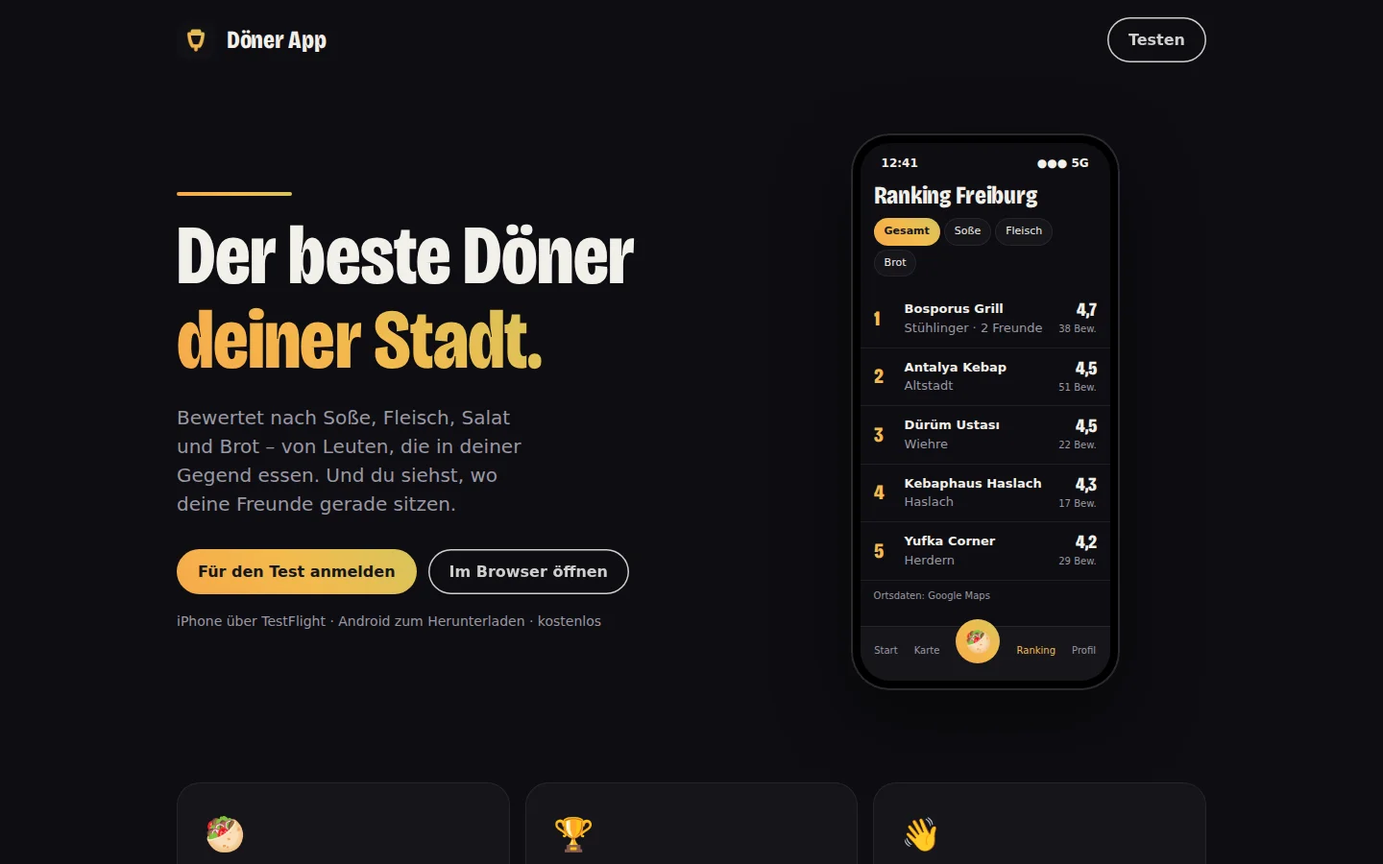
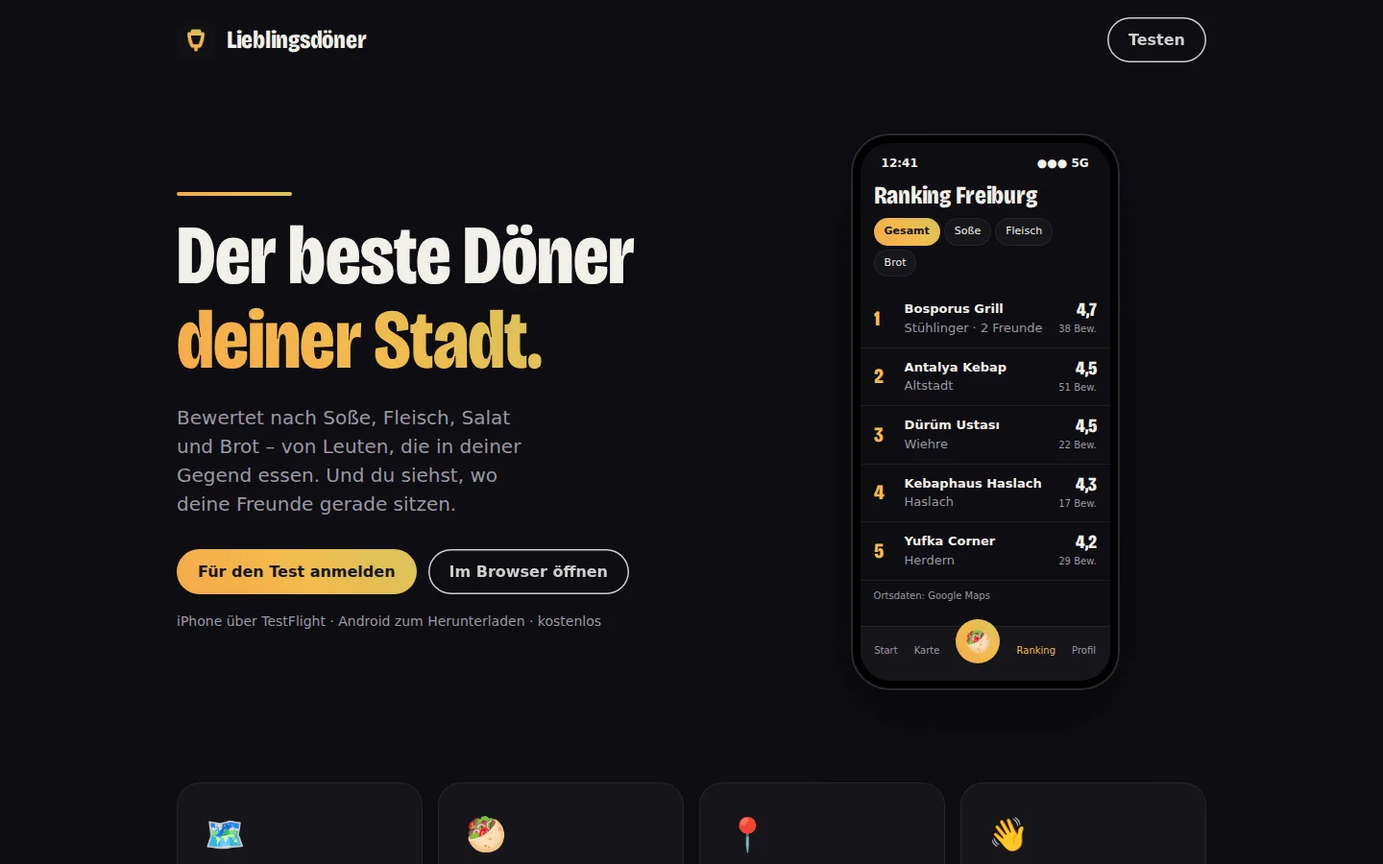
Website upkeep: Lieblingsdöner, Songgate in the stores, Pinna retired, fresh screenshots
The Döner app is called Lieblingsdöner now (apps page, tool wall, app dock,
llms.txt). Songgate links the App Store and Google Play. Pinna is archived,
so it leaves the products page; Käfig rests. Meterbolt gets its texts and the
Homebrew tap is hidden, which turned the werkstatt run red. Screenshots of
all four apps recopied from their repos, i18n.js version bumped, sitemap
dates updated. Logbook and numbers from werkstatt.mjs.

diff --git a/werkstatt.html b/werkstatt.html
@@ -62,11 +62,11 @@
         <h2 class="heading" id="h-zahlen" data-i18n="werkstatt.zahlen.h2">Die letzten 30 Tage</h2>
         <div>
           <div class="stats">
-            <div class="stat"><b data-gh="projects">26</b><span data-i18n="werkstatt.zahlen.projects">Projekte in Arbeit</span></div>
-            <div class="stat"><b data-gh="commits">971</b><span data-i18n="werkstatt.zahlen.commits">Commits in 30 Tagen</span></div>
+            <div class="stat"><b data-gh="projects">25</b><span data-i18n="werkstatt.zahlen.projects">Projekte in Arbeit</span></div>
+            <div class="stat"><b data-gh="commits">966</b><span data-i18n="werkstatt.zahlen.commits">Commits in 30 Tagen</span></div>
             <div class="stat"><b data-gh="agent">75&nbsp;%</b><span data-i18n="werkstatt.zahlen.agent">davon mit einem KI-Agenten als Co-Autor</span></div>
           </div>
-          <p class="source"><span data-i18n="werkstatt.zahlen.stand">Stand:</span> <time data-gh="updated" datetime="2026-11-13T17:06:59.195Z">13.11.2026, 18:06</time></p>
+          <p class="source"><span data-i18n="werkstatt.zahlen.stand">Stand:</span> <time data-gh="updated" datetime="2026-11-13T17:04:40.201Z">13.11.2026, 18:04</time></p>
         </div>
       </section>
 
@@ -91,7 +91,7 @@
             </button>
             <button type="button" class="tool" id="doener" aria-expanded="false" aria-controls="tool-doener">
               <img src="img/werkzeuge/doener.svg" alt="" width="112" height="112">
-              <span class="tool__name">Döner App</span>
+              <span class="tool__name">Lieblingsdöner</span>
               <span class="tool__desc" data-i18n="werkstatt.projekte.doener">Der beste Döner, bewertet von Leuten in der Nähe</span>
               <span class="status status--test" data-i18n="werkstatt.status.test">Testphase</span>
             </button>
@@ -148,11 +148,11 @@
             <div class="tool-panel" id="tool-doener" style="--line: linear-gradient(90deg, #F6A94A, #F3BA4D, #D7C45B)" hidden>
               <div class="tool-panel__head">
                 <img src="img/werkzeuge/doener.svg" alt="" width="56" height="56">
-                <div><h3>Döner App</h3><p data-i18n="werkstatt.wall.doener">Wer in der Nähe Döner isst, bewertet Soße, Fleisch und Brot. Daraus entsteht das Ranking der Stadt. Freunde verbinden sich per QR-Code.</p></div>
+                <div><h3>Lieblingsdöner</h3><p data-i18n="werkstatt.wall.doener">Wer in der Nähe Döner isst, bewertet Soße, Fleisch und Brot. Daraus entsteht das Ranking der Stadt. Freunde verbinden sich per QR-Code.</p></div>
               </div>
               <dl class="project__more">
                 <div><dt data-i18n="werkstatt.projekte.last">Zuletzt geändert</dt><dd><time data-gh="doenerapp.last" datetime="2026-11-13">13.11.</time></dd><dt data-i18n="werkstatt.projekte.stack">Technik</dt><dd>Flutter, Dart, Postgres</dd></div>
-                <div><dt data-i18n="werkstatt.wall.commits">Letzte 30 Tage</dt><dd><span class="commits"><b data-gh="doenerapp.commits">106</b> Commits, <b data-gh="doenerapp.agent">93</b> <span data-i18n="werkstatt.projekte.agent">mit Agent</span><i data-gh-bar="doenerapp" style="width: 62.7%"></i></span></dd><dt>Links</dt><dd><a href="https://github.com/robinchoice/doenerapp" data-i18n="home.facts.code_t">Quellcode</a></dd></div>
+                <div><dt data-i18n="werkstatt.wall.commits">Letzte 30 Tage</dt><dd><span class="commits"><b data-gh="doenerapp.commits">105</b> Commits, <b data-gh="doenerapp.agent">92</b> <span data-i18n="werkstatt.projekte.agent">mit Agent</span><i data-gh-bar="doenerapp" style="width: 62.1%"></i></span></dd><dt>Links</dt><dd><a href="https://github.com/robinchoice/doenerapp" data-i18n="home.facts.code_t">Quellcode</a></dd></div>
               </dl>
             </div>
             <div class="tool-panel" id="tool-fieldtest" style="--line: linear-gradient(90deg, #D7C45B, #ACC870, #80CD84)" hidden>
@@ -372,17 +372,6 @@
             </details>
             <details>
               <summary>
-                <span><span class="project__name">homebrew-tap</span><span class="project__desc" data-en=""></span></span>
-                <span class="status status--work" data-i18n="werkstatt.status.work">In Arbeit</span>
-                <span class="commits"><b data-gh="homebrew-tap.commits">4</b> Commits, <b data-gh="homebrew-tap.agent">3</b> <span data-i18n="werkstatt.projekte.agent">mit Agent</span><i data-gh-bar="homebrew-tap" style="width: 2.4%"></i></span>
-              </summary>
-              <dl class="project__more">
-                <div><dt data-i18n="werkstatt.projekte.last">Zuletzt geändert</dt><dd><time data-gh="homebrew-tap.last" datetime="2026-11-13">13.11.</time></dd><dt data-i18n="werkstatt.projekte.stack">Technik</dt><dd></dd></div>
-                <div><dt>Links</dt><dd><a href="https://github.com/robinchoice/homebrew-tap" data-i18n="home.facts.code_t">Quellcode</a></dd></div>
-              </dl>
-            </details>
-            <details>
-              <summary>
                 <span><span class="project__name">mautrix-mattermost</span><span class="project__desc" data-en="Unofficial Matrix–Mattermost puppeting bridge, meant to go upstream">Inoffizielle Brücke zwischen Matrix und Mattermost, gedacht für upstream</span></span>
                 <span class="status status--work" data-i18n="werkstatt.status.work">In Arbeit</span>
                 <span class="commits"><b data-gh="mautrix-mattermost.commits">4</b> Commits, <b data-gh="mautrix-mattermost.agent">4</b> <span data-i18n="werkstatt.projekte.agent">mit Agent</span><i data-gh-bar="mautrix-mattermost" style="width: 2.4%"></i></span>
@@ -427,12 +416,12 @@
             </details>
             <details>
               <summary>
-                <span><span class="project__name">meterbolt</span><span class="project__desc" data-en=""></span></span>
+                <span><span class="project__name">Meterbolt</span><span class="project__desc" data-en="BTCPay Server plugin that lets APIs charge per request with Lightning via L402. Just getting started">Plugin für BTCPay Server, das APIs per L402 mit Lightning bezahlbar macht. Steht noch am Anfang</span></span>
                 <span class="status status--work" data-i18n="werkstatt.status.work">In Arbeit</span>
                 <span class="commits"><b data-gh="meterbolt.commits">1</b> Commits, <b data-gh="meterbolt.agent">0</b> <span data-i18n="werkstatt.projekte.agent">mit Agent</span><i data-gh-bar="meterbolt" style="width: 0.6%"></i></span>
               </summary>
               <dl class="project__more">
-                <div><dt data-i18n="werkstatt.projekte.last">Zuletzt geändert</dt><dd><time data-gh="meterbolt.last" datetime="2026-11-13">13.11.</time></dd><dt data-i18n="werkstatt.projekte.stack">Technik</dt><dd></dd></div>
+                <div><dt data-i18n="werkstatt.projekte.last">Zuletzt geändert</dt><dd><time data-gh="meterbolt.last" datetime="2026-11-13">13.11.</time></dd><dt data-i18n="werkstatt.projekte.stack">Technik</dt><dd>C#, .NET, BTCPay Server, Lightning (L402)</dd></div>
                 <div><dt>Links</dt><dd><a href="https://github.com/robinchoice/meterbolt" data-i18n="home.facts.code_t">Quellcode</a></dd></div>
               </dl>
             </details>
@@ -447,13 +436,13 @@
           <ul class="log">
             <!-- werkstatt:log -->
             <li><time datetime="2026-11-13">13.11.</time><b>Savor</b><span data-en="I cut installing Savor down to one line: Homebrew on the Mac, a script on Linux and on your own server">Savor installiert man jetzt mit einer Zeile: per Homebrew auf dem Mac, per Skript unter Linux und auf dem eigenen Server</span></li>
-            <li><time datetime="2026-11-12">12.11.</time><b>Döner App</b><span data-en="I taught Lieblingsdöner to rate portion size, rank by value for money and filter for halal meat and homemade skewers">Lieblingsdöner bewertet die Größe, rankt nach Preis-Leistung und filtert Halal und selbst gesteckten Spieß</span></li>
+            <li><time datetime="2026-11-12">12.11.</time><b>Lieblingsdöner</b><span data-en="I taught Lieblingsdöner to rate portion size, rank by value for money and filter for halal meat and homemade skewers">Lieblingsdöner bewertet die Größe, rankt nach Preis-Leistung und filtert Halal und selbst gesteckten Spieß</span></li>
             <li><time datetime="2026-11-12">12.11.</time><b>starter</b><span data-en="I turned the colour band under the Pleasance wordmark into a dock of all my apps, on the web and in Flutter">Das Farbband unter der Wortmarke wird zum Dock der Pleasance-Apps, im Web und in Flutter</span></li>
             <li><time datetime="2026-11-11">11.11.</time><b>Savor</b><span data-en="Savor streams answers as they are written and adds a fast lane for quick questions">Savor streamt Antworten und bekommt eine Schnellspur für kurze Fragen</span></li>
             <li><time datetime="2026-11-10">10.11.</time><b>Music Hub</b><span data-en="Music Hub now lets project owners set rights per person (upload, download, comment, approve, invite), with the role as a preset">Music Hub: Rechte je Person einstellbar, Einstellungen überall erreichbar</span></li>
             <li><time datetime="2026-11-10">10.11.</time><b>Music Hub</b><span data-en="Music Hub now navigates like a drive: a short sidebar, My music as folders of artists, projects and tracks, and files per track">Music Hub navigiert wie ein Drive: kurze Seitenleiste, Meine Musik als Ordner, Dateien je Track</span></li>
             <li><time datetime="2026-11-09">09.11.</time><b>Savor</b><span data-en="Savor Cloud instances now come with one setup link that waits for the instance and works until the first pairing">Savor Cloud: ein Setup-Link, der auf seine Instanz wartet</span></li>
-            <li><time datetime="2026-11-09">09.11.</time><b>Döner App</b><span data-en="I renamed the Döner app to Lieblingsdöner">Die Döner-App heißt jetzt Lieblingsdöner</span></li>
+            <li><time datetime="2026-11-09">09.11.</time><b>Lieblingsdöner</b><span data-en="I renamed the Döner app to Lieblingsdöner">Die Döner-App heißt jetzt Lieblingsdöner</span></li>
             <li><time datetime="2026-11-09">09.11.</time><b>Music Hub</b><span data-en="I added referrals to Music Hub, both sides get free plan days once a referred account pays">Music Hub lockt mit Empfehlungen: beide Seiten bekommen freie Plantage</span></li>
             <li><time datetime="2026-11-08">08.11.</time><b>Music Hub</b><span data-en="I added a blind test to Music Hub, so you pick the better mix without knowing which version it is">Music Hub hat einen Blindtest für Versionen</span></li>
             <!-- /werkstatt:log -->
@@ -520,7 +509,7 @@
 
   <script src="vendor/sentry-11.4.0.min.js"></script>
   <script src="monitoring.js"></script>
-  <script src="i18n.js?v=20261106a"></script>
+  <script src="i18n.js?v=20261113a"></script>
   <script src="main.js?v=20261027c"></script>
   <script>
   (function () {

diff --git a/produkte.html b/produkte.html
@@ -3,8 +3,8 @@
 <head>
   <meta charset="UTF-8">
   <meta name="viewport" content="width=device-width, initial-scale=1.0">
-  <title>Produkte: Freehold, Savor, Pinna, Academy und Labs — Pleasance</title>
-  <meta name="description" content="Pleasance ist die Dachmarke für Freehold, Savor, Pinna, die Academy und die Labs. Die Software ist Open Source und läuft auf dem eigenen Rechner oder Server.">
+  <title>Produkte: Freehold, Savor, Academy und Labs — Pleasance</title>
+  <meta name="description" content="Pleasance ist die Dachmarke für Freehold, Savor, die Academy und die Labs. Die Software ist Open Source und läuft auf dem eigenen Rechner oder Server.">
   <link rel="canonical" href="https://pleasance.org/produkte.html">
   <link rel="icon" href="favicon.ico" sizes="32x32">
   <link rel="icon" href="favicon.svg" type="image/svg+xml">
@@ -12,8 +12,8 @@
   <meta property="og:site_name" content="Pleasance">
   <meta property="og:locale" content="de_DE">
   <meta property="og:url" content="https://pleasance.org/produkte.html">
-  <meta property="og:title" content="Produkte: Freehold, Savor, Pinna, Academy und Labs — Pleasance">
-  <meta property="og:description" content="Pleasance ist die Dachmarke für Freehold, Savor, Pinna, die Academy und die Labs. Die Software ist Open Source und läuft auf dem eigenen Rechner oder Server.">
+  <meta property="og:title" content="Produkte: Freehold, Savor, Academy und Labs — Pleasance">
+  <meta property="og:description" content="Pleasance ist die Dachmarke für Freehold, Savor, die Academy und die Labs. Die Software ist Open Source und läuft auf dem eigenen Rechner oder Server.">
   <meta property="og:image" content="https://pleasance.org/img/og.png">
   <meta property="og:image:alt" content="Pleasance: Werkzeuge, Wissen und Wege, die dir gehören. Software, Training und Coaching aus Freiburg.">
   <meta name="twitter:card" content="summary_large_image">
@@ -115,17 +115,6 @@
         </div>
       </section>
 
-      <section class="section" id="pinna" aria-labelledby="h-pinna">
-        <div>
-          <h2 class="heading" id="h-pinna">Pleasance Pinna</h2>
-          <p class="app__tagline" data-i18n="produkte.pinna.tagline">Agenten schlagen vor. Du hörst und entscheidest.</p>
-        </div>
-        <div>
-          <p class="app__text" data-i18n="produkte.pinna.text">Eine Audio-Workstation für Agenten: Der Agent schlägt Änderungen vor und misst, was er hört, du vergleichst per A/B und übernimmst. Der Song liegt als Textdatei in Git. Für Linux, macOS und Windows.</p>
-          <p class="links"><a href="https://github.com/robinchoice/pinna/releases" data-i18n="produkte.pinna.link">Herunterladen</a> <a href="https://github.com/robinchoice/pinna" data-i18n="home.facts.code_t">Quellcode</a></p>
-        </div>
-      </section>
-
       <section class="section" id="academy" aria-labelledby="h-academy">
         <div>
           <h2 class="heading" id="h-academy">Pleasance Academy</h2>
@@ -146,7 +135,7 @@
           <p class="app__tagline" data-i18n="produkte.labs.tagline">Experimente, öffentlich gebaut. Ob daraus ein Produkt wird, ist offen.</p>
         </div>
         <ul class="approach approach--named">
-          <li><h3>Käfig <em class="badge" data-i18n="produkte.labs.badge">Experiment</em></h3><p data-i18n="produkte.labs.kaefig">Eine Arena: Bringst du einen KI-Agenten in seiner Sandbox über eine Grenze?</p><p class="links"><a href="https://github.com/robinchoice/kaefig" data-i18n="home.facts.code_t">Quellcode</a></p></li>
+          <li><h3>Käfig <span class="status status--quiet" data-i18n="werkstatt.status.quiet">Ruht</span></h3><p data-i18n="produkte.labs.kaefig">Eine Arena: Bringst du einen KI-Agenten in seiner Sandbox über eine Grenze?</p><p class="links"><a href="https://github.com/robinchoice/kaefig" data-i18n="home.facts.code_t">Quellcode</a></p></li>
           <li><h3>Stackarena <em class="badge" data-i18n="produkte.labs.badge">Experiment</em></h3><p data-i18n="produkte.labs.stackarena">Agenten bauen dieselbe App auf vielen Stacks, jeder Lauf wird gleich getestet und bewertet.</p><p class="links"><a href="https://github.com/robinchoice/stackarena" data-i18n="home.facts.code_t">Quellcode</a></p></li>
           <li><h3>docpilot <span class="status status--quiet" data-i18n="werkstatt.status.quiet">Ruht</span></h3><p data-i18n="produkte.labs.docpilot">Dokumentation, die bei jedem Push mitwächst: Eine GitHub Action schlägt die neue README als Pull Request vor.</p><p class="links"><a href="https://github.com/robinchoice/docpilot" data-i18n="home.facts.code_t">Quellcode</a></p></li>
         </ul>
@@ -179,7 +168,7 @@
 
   <script src="vendor/sentry-11.4.0.min.js"></script>
   <script src="monitoring.js"></script>
-  <script src="i18n.js?v=20261106a"></script>
+  <script src="i18n.js?v=20261113a"></script>
   <script src="main.js?v=20261027c"></script>
 
 </body>

diff --git a/apps.html b/apps.html
@@ -4,7 +4,7 @@
   <meta charset="UTF-8">
   <meta name="viewport" content="width=device-width, initial-scale=1.0">
   <title>Apps: Open Source und selbst betrieben — Pleasance</title>
-  <meta name="description" content="Kleine Apps mit je einem Zweck, gebaut mit KI-Agenten und selbst betrieben: Savor, Music Hub, Songgate und die Döner App. Alle Open Source.">
+  <meta name="description" content="Kleine Apps mit je einem Zweck, gebaut mit KI-Agenten und selbst betrieben: Savor, Music Hub, Songgate und Lieblingsdöner. Alle Open Source.">
   <link rel="canonical" href="https://pleasance.org/apps.html">
   <link rel="icon" href="favicon.ico" sizes="32x32">
   <link rel="icon" href="favicon.svg" type="image/svg+xml">
@@ -13,7 +13,7 @@
   <meta property="og:locale" content="de_DE">
   <meta property="og:url" content="https://pleasance.org/apps.html">
   <meta property="og:title" content="Apps: Open Source und selbst betrieben — Pleasance">
-  <meta property="og:description" content="Kleine Apps mit je einem Zweck, gebaut mit KI-Agenten und selbst betrieben: Savor, Music Hub, Songgate und die Döner App. Alle Open Source.">
+  <meta property="og:description" content="Kleine Apps mit je einem Zweck, gebaut mit KI-Agenten und selbst betrieben: Savor, Music Hub, Songgate und Lieblingsdöner. Alle Open Source.">
   <meta property="og:image" content="https://pleasance.org/img/og.png">
   <meta property="og:image:alt" content="Pleasance: Werkzeuge, Wissen und Wege, die dir gehören. Software, Training und Coaching aus Freiburg.">
   <meta name="twitter:card" content="summary_large_image">
@@ -105,6 +105,8 @@
           <p class="app__text" data-en="Paste a link to a song, album or podcast and Songgate finds it on Spotify, Apple Music, YouTube Music, Deezer and TIDAL. No account, friends and groups stay on your device.">Füg einen Link zu Song, Album oder Podcast ein, Songgate findet ihn bei Spotify, Apple Music, YouTube Music, Deezer und TIDAL. Ohne Konto, Freunde und Gruppen bleiben auf deinem Gerät.</p>
           <div class="app__links">
             <a class="btn" href="https://songgate.app" data-en="Open Songgate">Songgate öffnen</a>
+            <a class="btn btn--ghost" href="https://apps.apple.com/app/id6819013473" data-en="App Store">App Store</a>
+            <a class="btn btn--ghost" href="https://play.google.com/store/apps/details?id=org.pleasance.songgate" data-en="Google Play">Google Play</a>
             <a href="https://github.com/robinchoice/songgate" data-i18n="home.facts.code_t">Quellcode</a>
           </div>
           <div class="shots">
@@ -116,7 +118,7 @@
       <section class="section app" id="doener" aria-labelledby="h-doener">
         <div>
           <img class="app__icon" src="img/werkzeuge/doener.svg" alt="" width="72" height="72">
-          <h2 class="heading" id="h-doener">Döner App</h2>
+          <h2 class="heading" id="h-doener">Lieblingsdöner</h2>
           <p class="app__tagline" data-en="The best döner in your city.">Der beste Döner deiner Stadt.</p>
         </div>
         <div>
@@ -126,8 +128,8 @@
             <a href="https://github.com/robinchoice/doenerapp" data-i18n="home.facts.code_t">Quellcode</a>
           </div>
           <div class="shots">
-            <a class="shot shot--desktop" href="img/apps/doener-desktop.webp"><img src="img/apps/doener-desktop.webp" data-en-src="img/apps/doener-desktop-en.webp" alt="Döner App, Desktop" width="1440" height="900" loading="lazy"></a>
-            <a class="shot shot--phone" href="img/apps/doener-phone.webp"><img src="img/apps/doener-phone.webp" data-en-src="img/apps/doener-phone-en.webp" alt="Döner App, Smartphone" width="780" height="1688" loading="lazy"></a>
+            <a class="shot shot--desktop" href="img/apps/doener-desktop.webp"><img src="img/apps/doener-desktop.webp" data-en-src="img/apps/doener-desktop-en.webp" alt="Lieblingsdöner, Desktop" width="1440" height="900" loading="lazy"></a>
+            <a class="shot shot--phone" href="img/apps/doener-phone.webp"><img src="img/apps/doener-phone.webp" data-en-src="img/apps/doener-phone-en.webp" alt="Lieblingsdöner, Smartphone" width="780" height="1688" loading="lazy"></a>
           </div>
         </div>
       </section>
@@ -170,7 +172,7 @@
 
   <script src="vendor/sentry-11.4.0.min.js"></script>
   <script src="monitoring.js"></script>
-  <script src="i18n.js?v=20261106a"></script>
+  <script src="i18n.js?v=20261113a"></script>
   <script src="main.js?v=20261027c"></script>
 
 </body>

diff --git a/i18n.js b/i18n.js
@@ -54,12 +54,12 @@ const I18N_META = {
   },
   produkte: {
     title: {
-      de: 'Produkte: Freehold, Savor, Pinna, Academy und Labs — Pleasance',
-      en: 'Products: Freehold, Savor, Pinna, Academy and Labs — Pleasance',
+      de: 'Produkte: Freehold, Savor, Academy und Labs — Pleasance',
+      en: 'Products: Freehold, Savor, Academy and Labs — Pleasance',
     },
     desc: {
-      de: 'Pleasance ist die Dachmarke für Freehold, Savor, Pinna, die Academy und die Labs. Die Software ist Open Source und läuft auf dem eigenen Rechner oder Server.',
-      en: 'Pleasance is the umbrella brand for Freehold, Savor, Pinna, the Academy and the Labs. The software is open source and runs on your own computer or server.',
+      de: 'Pleasance ist die Dachmarke für Freehold, Savor, die Academy und die Labs. Die Software ist Open Source und läuft auf dem eigenen Rechner oder Server.',
+      en: 'Pleasance is the umbrella brand for Freehold, Savor, the Academy and the Labs. The software is open source and runs on your own computer or server.',
     },
   },
   apps: {
@@ -68,8 +68,8 @@ const I18N_META = {
       en: 'Apps: open source and self-hosted — Pleasance',
     },
     desc: {
-      de: 'Kleine Apps mit je einem Zweck, gebaut mit KI-Agenten und selbst betrieben: Savor, Music Hub, Songgate und die Döner App. Alle Open Source.',
-      en: 'Small apps, each with one job, built with AI agents and self-hosted: Savor, Music Hub, Songgate and the Döner App. All open source.',
+      de: 'Kleine Apps mit je einem Zweck, gebaut mit KI-Agenten und selbst betrieben: Savor, Music Hub, Songgate und Lieblingsdöner. Alle Open Source.',
+      en: 'Small apps, each with one job, built with AI agents and self-hosted: Savor, Music Hub, Songgate and Lieblingsdöner. All open source.',
     },
   },
   werkstatt: {
@@ -841,11 +841,6 @@ const I18N = {
       tagline: { de: 'Coding-Agents, die sich zurückmelden.', en: 'Coding agents that report back.' },
       text: { de: 'Die lokale Arbeitsumgebung für Claude Code, Codex und OpenCode: Jede Aufgabe endet mit einem klaren Ergebnis, den Fragen an dich und den nächsten Schritten. Für Linux, macOS und Windows.', en: 'The local workspace for Claude Code, Codex and OpenCode: every task ends with one clear result, the questions that need you, and next steps. For Linux, macOS and Windows.' },
       link: { de: 'Mehr über Savor', en: 'More about Savor' },
-    },
-    pinna: {
-      tagline: { de: 'Agenten schlagen vor. Du hörst und entscheidest.', en: 'Agents propose. You listen and decide.' },
-      text: { de: 'Eine Audio-Workstation für Agenten: Der Agent schlägt Änderungen vor und misst, was er hört, du vergleichst per A/B und übernimmst. Der Song liegt als Textdatei in Git. Für Linux, macOS und Windows.', en: 'An audio workstation for agents: the agent proposes changes and measures what it hears, you compare by A/B and accept. The song lives as a text file in Git. For Linux, macOS and Windows.' },
-      link: { de: 'Herunterladen', en: 'Download' },
     },
     academy: {
       tagline: { de: 'Agentisches Arbeiten lernen.', en: 'Learn to work with agents.' },

diff --git a/index.html b/index.html
@@ -129,7 +129,7 @@
             </a>
             <a class="tool" href="werkstatt.html#doener">
               <img src="img/werkzeuge/doener.svg" alt="" width="112" height="112">
-              <span class="tool__name">Döner App</span>
+              <span class="tool__name">Lieblingsdöner</span>
               <span class="status status--test" data-i18n="werkstatt.status.test">Testphase</span>
             </a>
             <a class="tool" href="werkstatt.html#fieldtest">
@@ -159,10 +159,10 @@
             </a>
           </div>
           <div class="pulse">
-            <p><b data-gh="projects">26</b> <span data-i18n="werkstatt.zahlen.projects">Projekte in Arbeit</span></p>
-            <p><b data-gh="commits">971</b> <span data-i18n="werkstatt.zahlen.commits">Commits in 30 Tagen</span></p>
+            <p><b data-gh="projects">25</b> <span data-i18n="werkstatt.zahlen.projects">Projekte in Arbeit</span></p>
+            <p><b data-gh="commits">966</b> <span data-i18n="werkstatt.zahlen.commits">Commits in 30 Tagen</span></p>
             <p><b data-gh="agent">75&nbsp;%</b> <span data-i18n="home.pulse.agent">davon mit Agent</span></p>
-            <p class="source"><span data-i18n="werkstatt.zahlen.stand">Stand:</span> <time data-gh="updated" datetime="2026-11-13T17:06:59.195Z">13.11.2026, 18:06</time>, <a href="werkstatt.html" data-i18n="home.pulse.source">alle Projekte in der Werkstatt</a></p>
+            <p class="source"><span data-i18n="werkstatt.zahlen.stand">Stand:</span> <time data-gh="updated" datetime="2026-11-13T17:04:40.201Z">13.11.2026, 18:04</time>, <a href="werkstatt.html" data-i18n="home.pulse.source">alle Projekte in der Werkstatt</a></p>
           </div>
         </div>
       </section>
@@ -322,7 +322,7 @@
 
   <script src="vendor/sentry-11.4.0.min.js"></script>
   <script src="monitoring.js"></script>
-  <script src="i18n.js?v=20261106a"></script>
+  <script src="i18n.js?v=20261113a"></script>
   <script src="main.js?v=20261027c"></script>
 
   <script>

diff --git a/handbuch.html b/handbuch.html
@@ -89,7 +89,7 @@
           <section class="chapter" id="fabrik" aria-labelledby="h-hb-f">
             <h2 class="heading" id="h-hb-f" data-i18n="hb.f.h2">Die Fabrik</h2>
             <p data-i18n="hb.f.p1">Neue Apps entstehen aus einer Vorlage, die Login, Deutsch und Englisch, Tests und Deploy schon mitbringt. Vor dem Bau prüfen Agenten, ob es die Idee schon gibt, dann entstehen 2–3 klickbare Mockups. Gebaut wird nur die Richtung, die ich freigebe. Ein Push auf den Hauptzweig geht live, und ein Deploy zählt erst, wenn die App selbst den neuen Stand meldet.</p>
-            <p><span data-i18n="hb.f.n1">In den letzten 30 Tagen:</span> <b data-gh="commits">971</b> <span data-i18n="hb.f.n2">Commits in</span> <b data-gh="projects">26</b> <span data-i18n="hb.f.n3">Projekten,</span> <b data-gh="agent">75&nbsp;%</b> <span data-i18n="hb.f.n4">davon mit einem Agenten als Co-Autor. Songgate (damals MusicLink) lief 1&nbsp;Stunde 14&nbsp;Minuten nach dem ersten Commit.</span></p>
+            <p><span data-i18n="hb.f.n1">In den letzten 30 Tagen:</span> <b data-gh="commits">966</b> <span data-i18n="hb.f.n2">Commits in</span> <b data-gh="projects">25</b> <span data-i18n="hb.f.n3">Projekten,</span> <b data-gh="agent">75&nbsp;%</b> <span data-i18n="hb.f.n4">davon mit einem Agenten als Co-Autor. Songgate (damals MusicLink) lief 1&nbsp;Stunde 14&nbsp;Minuten nach dem ersten Commit.</span></p>
             <p class="teaser"><a href="werkstatt.html" data-i18n="nacht.factory.more">Alle Projekte in der Werkstatt</a></p>
           </section>
 
@@ -163,7 +163,7 @@
 
   <script src="vendor/sentry-11.4.0.min.js"></script>
   <script src="monitoring.js"></script>
-  <script src="i18n.js?v=20261106a"></script>
+  <script src="i18n.js?v=20261113a"></script>
   <script src="main.js?v=20261027c"></script>
 
 </body>

diff --git a/nachtschicht.html b/nachtschicht.html
@@ -100,8 +100,8 @@
       <section class="section" aria-labelledby="h-factory">
         <div>
           <h2 class="heading" id="h-factory" data-i18n="nacht.factory.h2">Ein Tag in der Fabrik</h2>
-          <p class="factory-sum"><span data-i18n="nacht.factory.day">In den 24 Stunden vor dem letzten Stand:</span> <b data-gh="day.commits">50</b> <span data-i18n="nacht.factory.commits">Commits in</span> <b data-gh="day.projects">10</b> <span data-i18n="nacht.factory.projects">Projekten.</span></p>
-          <p class="source"><span data-i18n="werkstatt.zahlen.stand">Stand:</span> <time data-gh="updated" datetime="2026-11-13T17:06:59.195Z">13.11.2026, 18:06</time></p>
+          <p class="factory-sum"><span data-i18n="nacht.factory.day">In den 24 Stunden vor dem letzten Stand:</span> <b data-gh="day.commits">45</b> <span data-i18n="nacht.factory.commits">Commits in</span> <b data-gh="day.projects">9</b> <span data-i18n="nacht.factory.projects">Projekten.</span></p>
+          <p class="source"><span data-i18n="werkstatt.zahlen.stand">Stand:</span> <time data-gh="updated" datetime="2026-11-13T17:04:40.201Z">13.11.2026, 18:04</time></p>
         </div>
         <div>
           <h3 class="factory-title" data-i18n="nacht.factory.example">Zum Beispiel am 20. Oktober, an dem 72 Commits in 7 Repositories landeten:</h3>
@@ -186,7 +186,7 @@
 
   <script src="vendor/sentry-11.4.0.min.js"></script>
   <script src="monitoring.js"></script>
-  <script src="i18n.js?v=20261106a"></script>
+  <script src="i18n.js?v=20261113a"></script>
   <script src="main.js?v=20261027c"></script>
   <script>
   (function () {

diff --git a/kurs-agenten.html b/kurs-agenten.html
@@ -128,8 +128,8 @@
         <h2 class="heading" id="h-belege" data-i18n="kurs.belege.h2">Belege statt Versprechen</h2>
         <div>
           <div class="stats">
-            <div class="stat"><b data-gh="projects">26</b><span data-i18n="kurs.belege.projects">Projekte, die ich gerade allein entwickle</span></div>
-            <div class="stat"><b data-gh="commits">971</b><span data-i18n="kurs.belege.commits">Commits in den letzten 30 Tagen</span></div>
+            <div class="stat"><b data-gh="projects">25</b><span data-i18n="kurs.belege.projects">Projekte, die ich gerade allein entwickle</span></div>
+            <div class="stat"><b data-gh="commits">966</b><span data-i18n="kurs.belege.commits">Commits in den letzten 30 Tagen</span></div>
             <div class="stat"><b data-gh="agent">75&nbsp;%</b><span data-i18n="werkstatt.zahlen.agent">davon mit einem KI-Agenten als Co-Autor</span></div>
           </div>
           <p class="source" data-i18n="kurs.belege.source">Jede Nacht aktualisiert. Alle Projekte, das Logbuch und was nicht geklappt hat: <a href="werkstatt.html">in der Werkstatt</a>.</p>
@@ -222,7 +222,7 @@
 
   <script src="vendor/sentry-11.4.0.min.js"></script>
   <script src="monitoring.js"></script>
-  <script src="i18n.js?v=20261106a"></script>
+  <script src="i18n.js?v=20261113a"></script>
   <script src="main.js?v=20261027c"></script>
 
 </body>

diff --git a/software.html b/software.html
@@ -188,7 +188,7 @@
           <ul class="tool-row">
             <li><a href="werkstatt.html#fahrbar"><img src="img/werkzeuge/fahrbar.svg" alt="" width="64" height="64"><span>fahrbar</span></a></li>
             <li><a href="werkstatt.html#musichub"><img src="img/werkzeuge/musichub.svg" alt="" width="64" height="64"><span>Music Hub</span></a></li>
-            <li><a href="werkstatt.html#doener"><img src="img/werkzeuge/doener.svg" alt="" width="64" height="64"><span>Döner App</span></a></li>
+            <li><a href="werkstatt.html#doener"><img src="img/werkzeuge/doener.svg" alt="" width="64" height="64"><span>Lieblingsdöner</span></a></li>
             <li><a href="werkstatt.html#fieldtest"><img src="img/werkzeuge/fieldtest.svg" alt="" width="64" height="64"><span>Fieldtest</span></a></li>
             <li><a href="werkstatt.html#musiclink"><img src="img/werkzeuge/musiclink.svg" alt="" width="64" height="64"><span>Songgate</span></a></li>
             <li><a href="werkstatt.html#docpilot"><img src="img/werkzeuge/docpilot.svg" alt="" width="64" height="64"><span>docpilot</span></a></li>
@@ -288,7 +288,7 @@
 
   <script src="vendor/sentry-11.4.0.min.js"></script>
   <script src="monitoring.js"></script>
-  <script src="i18n.js?v=20261106a"></script>
+  <script src="i18n.js?v=20261113a"></script>
   <script src="main.js?v=20261027c"></script>
 
 </body>

diff --git a/kurs-teams.html b/kurs-teams.html
@@ -131,7 +131,7 @@
         <div>
           <div class="prose"><p data-i18n="teams.belege.intro">Ich entwickle alle meine Projekte so, mit Agenten nach offenen Regeln. Was im Workshop vorkommt, läuft bei mir jeden Tag, samt dem, was dabei schiefging.</p></div>
           <div class="stats" style="margin-top: 1.75rem">
-            <div class="stat"><b data-gh="commits">971</b><span data-i18n="kurs.belege.commits">Commits in den letzten 30 Tagen</span></div>
+            <div class="stat"><b data-gh="commits">966</b><span data-i18n="kurs.belege.commits">Commits in den letzten 30 Tagen</span></div>
             <div class="stat"><b data-gh="agent">75&nbsp;%</b><span data-i18n="werkstatt.zahlen.agent">davon mit einem KI-Agenten als Co-Autor</span></div>
             <div class="stat"><b>18</b><span data-i18n="teams.belege.review">Repositories, die jede Nacht ein Agent prüft und ein zweiter gegenprüft</span></div>
           </div>
@@ -231,7 +231,7 @@
 
   <script src="vendor/sentry-11.4.0.min.js"></script>
   <script src="monitoring.js"></script>
-  <script src="i18n.js?v=20261106a"></script>
+  <script src="i18n.js?v=20261113a"></script>
   <script src="main.js?v=20261027c"></script>
 
 </body>

diff --git a/kontakt.html b/kontakt.html
@@ -117,7 +117,7 @@
 
   <script src="vendor/sentry-11.4.0.min.js"></script>
   <script src="monitoring.js"></script>
-  <script src="i18n.js?v=20261106a"></script>
+  <script src="i18n.js?v=20261113a"></script>
   <script src="main.js?v=20261027c"></script>
   <script>
   (function () {

diff --git a/coaching.html b/coaching.html
@@ -250,7 +250,7 @@
 
   <script src="vendor/sentry-11.4.0.min.js"></script>
   <script src="monitoring.js"></script>
-  <script src="i18n.js?v=20261106a"></script>
+  <script src="i18n.js?v=20261113a"></script>
   <script src="main.js?v=20261027c"></script>
 
 </body>
